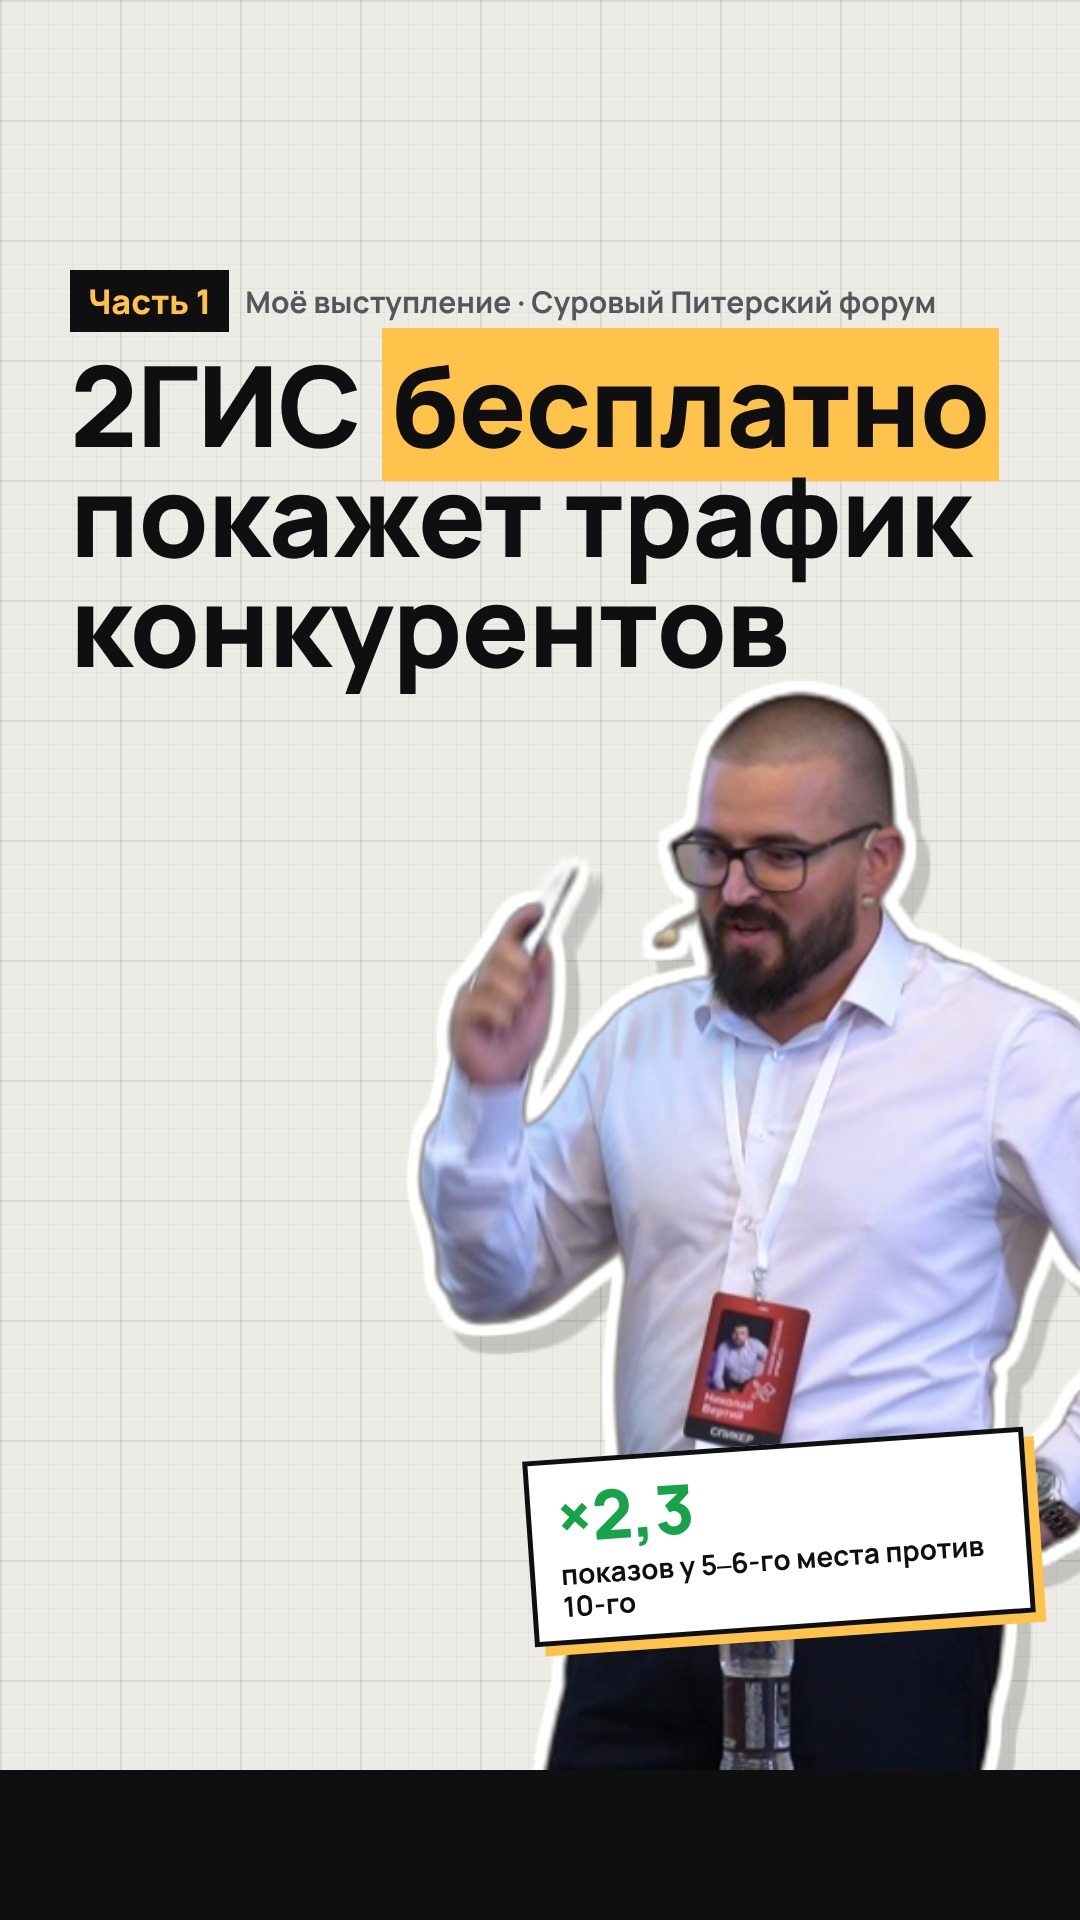
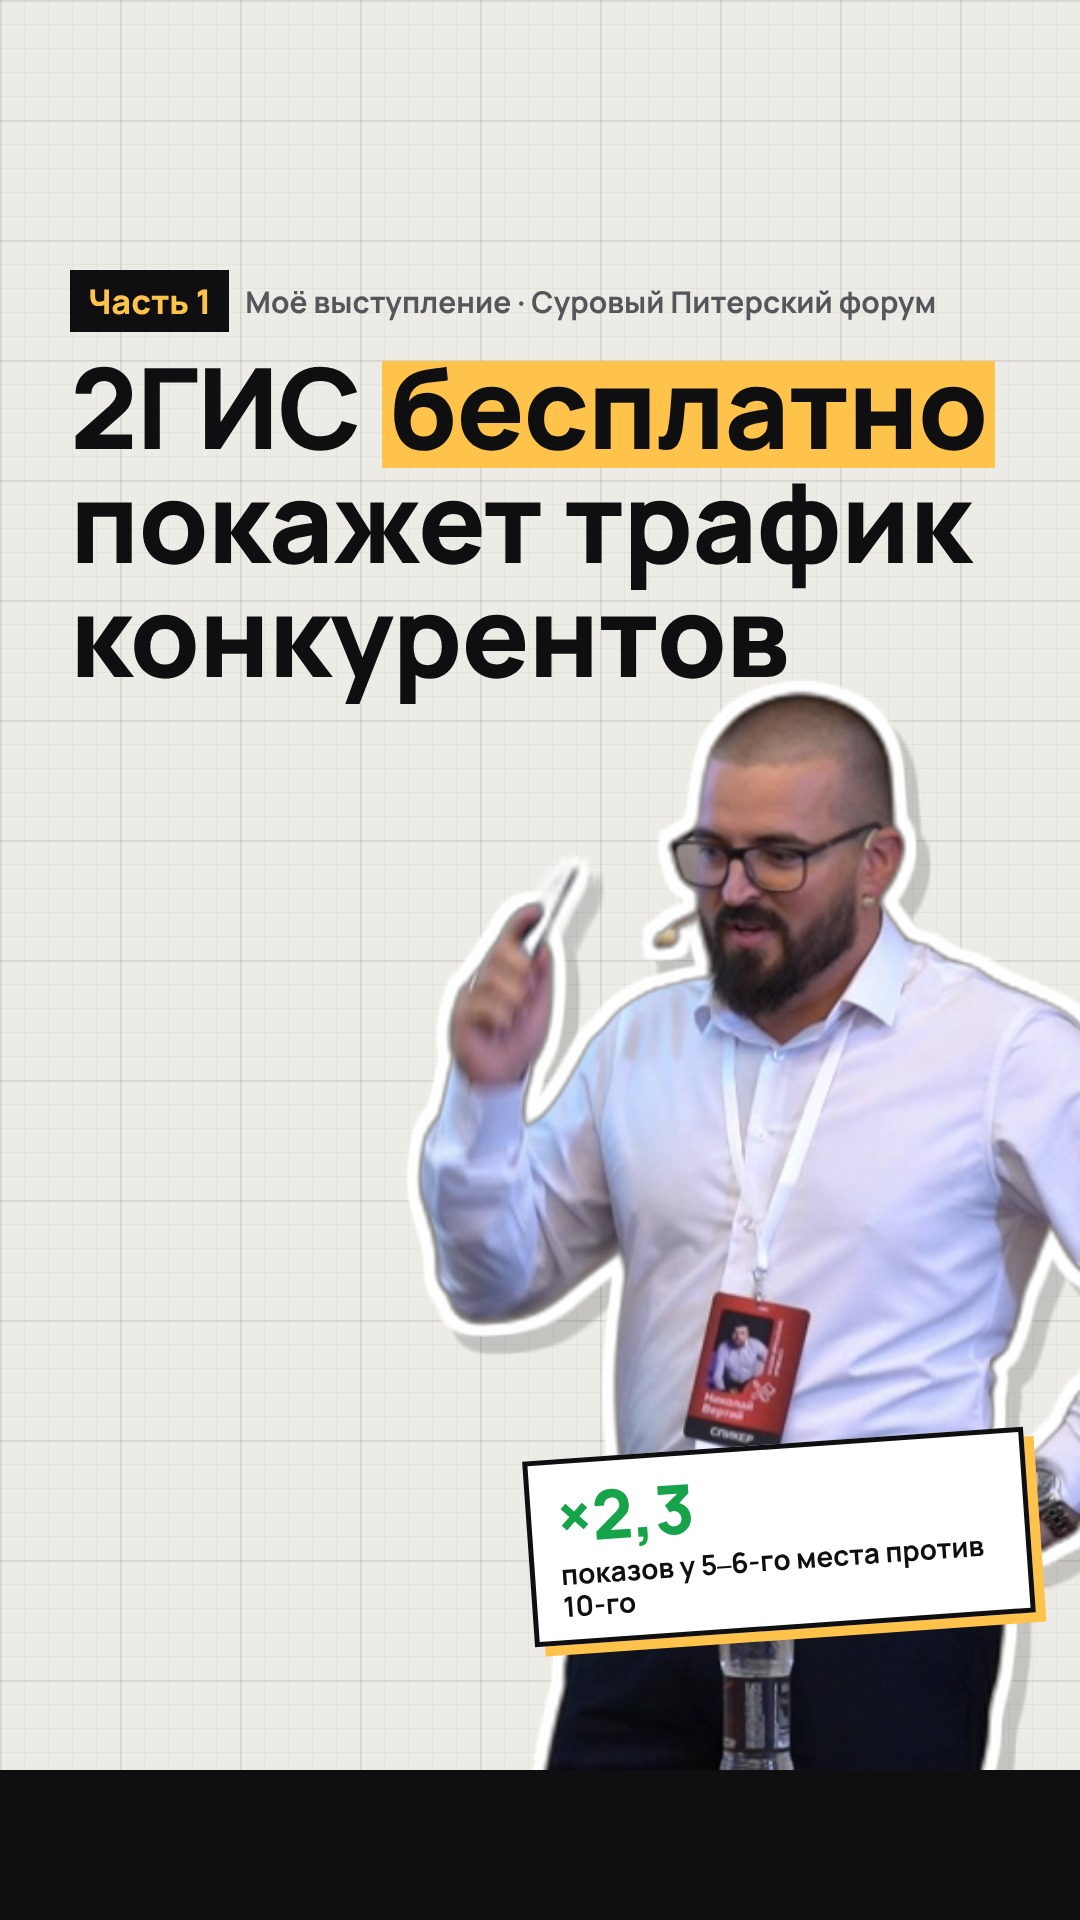
Covers: thinner yellow highlight so it no longer overlaps neighbouring lines
Claude-Session: https://claude.ai/code/session_01L5ersC6MY2f9vKxfXU8GBH

Changed region(s): [[0.0611, 0.1562, 0.9472, 0.375], [0.275, 0.1875, 0.3056, 0.2188]]

diff --git a/instagram/covers/covers.py b/instagram/covers/covers.py
@@ -15,8 +15,8 @@ background-image:linear-gradient(rgba(15,15,18,.07) 2px,transparent 2px),linear-
 .top{position:absolute;left:70px;top:270px;display:flex;gap:16px;align-items:center}
 .tag{background:#0F0F12;color:#FFC24B;font-weight:800;font-size:34px;padding:8px 18px}
 .ev{font-weight:700;font-size:30px;color:#55555c}
-h1{position:absolute;left:70px;top:350px;width:940px;margin:0;font-weight:800;font-size:112px;line-height:.98;color:#0F0F12;letter-spacing:-1px}
-h1 mark{background:#FFC24B;color:#0F0F12;padding:0 10px;box-decoration-break:clone;-webkit-box-decoration-break:clone}
+h1{position:absolute;left:70px;top:350px;width:940px;margin:0;font-weight:800;font-size:112px;line-height:1.02;color:#0F0F12;letter-spacing:-1px}
+h1 mark{background:linear-gradient(transparent 20%,#FFC24B 20%,#FFC24B 90%,transparent 90%);color:#0F0F12;padding:0 8px;box-decoration-break:clone;-webkit-box-decoration-break:clone}
 .sp{position:absolute;left:50%;bottom:150px;width:1240px;transform:translateX(-50%);filter:drop-shadow(0 0 0 #fff) drop-shadow(10px 0 0 #fff) drop-shadow(-10px 0 0 #fff) drop-shadow(0 10px 0 #fff) drop-shadow(0 -10px 0 #fff) drop-shadow(14px 18px 0 rgba(15,15,18,.18))}
 .st{position:absolute;right:50px;bottom:290px;background:#fff;border:5px solid #0F0F12;box-shadow:10px 10px 0 #FFC24B;padding:18px 26px;transform:rotate(-4deg);max-width:440px}
 .st b{display:block;white-space:nowrap;font-weight:800;font-size:68px;color:#16A34A;line-height:1}
